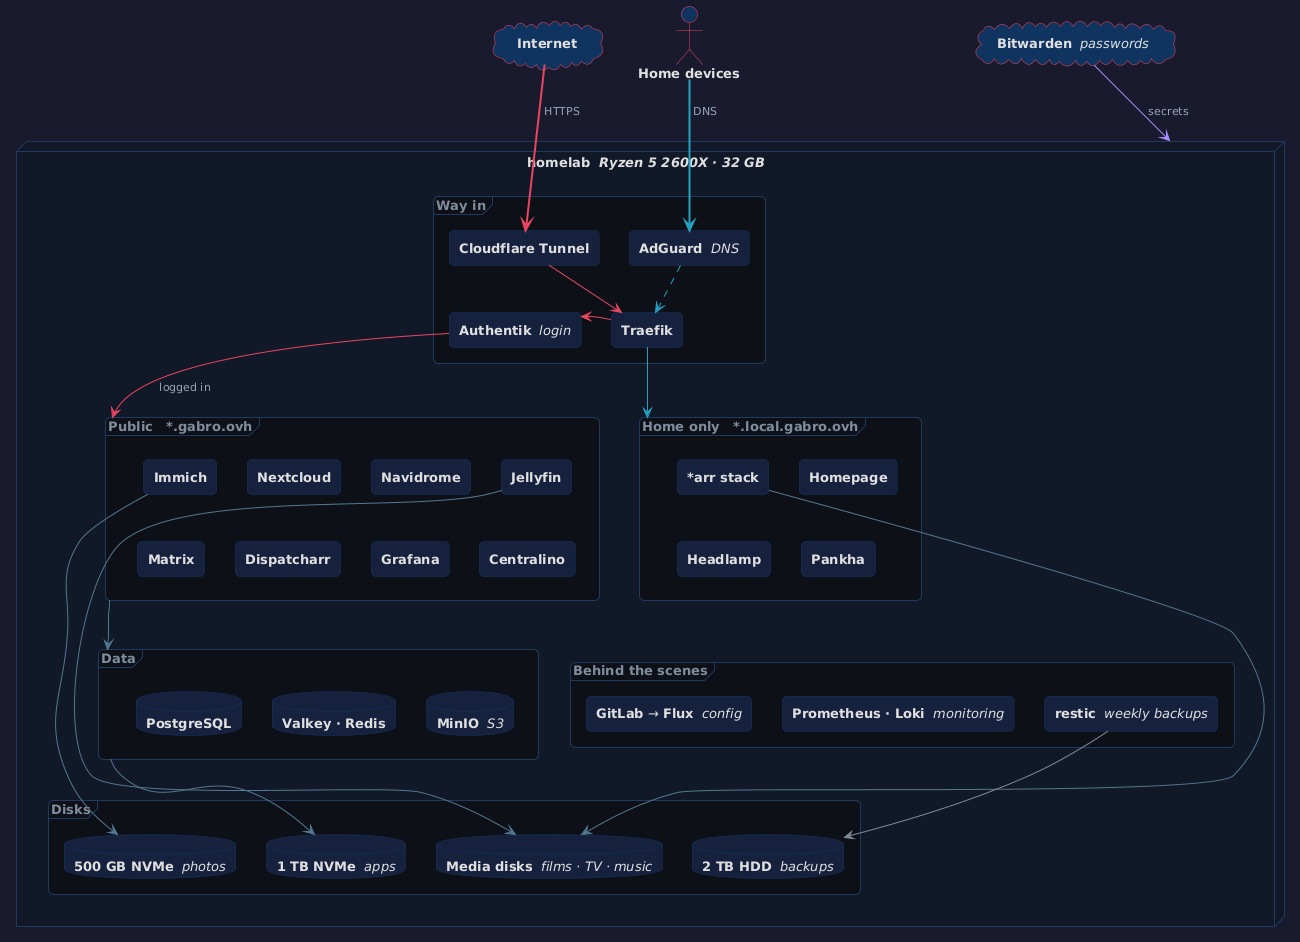
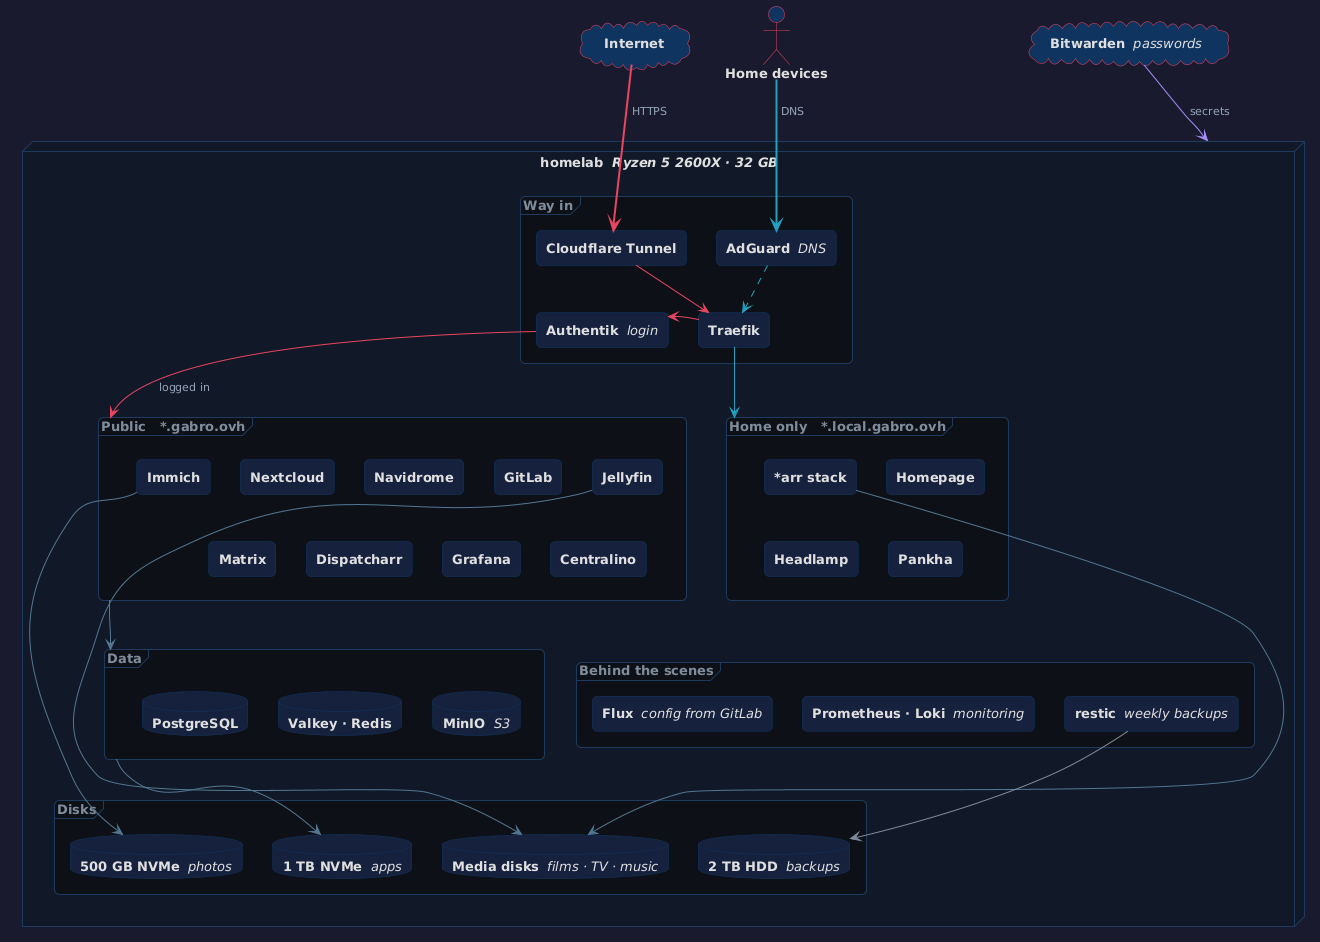
update readme

diff --git a/README.md b/README.md
@@ -122,6 +122,7 @@ Here are the services that are exposed to the internet:
 - **Navidrome** for music streaming
 - **Matrix** for chat
 - **Grafana** for monitoring
+- **GitLab** for hosting this repo and running the CI
 - **Authentik** as a centralized authentication provider
 - **Centralino**, a home automation panel for the ESP32 boards
 
